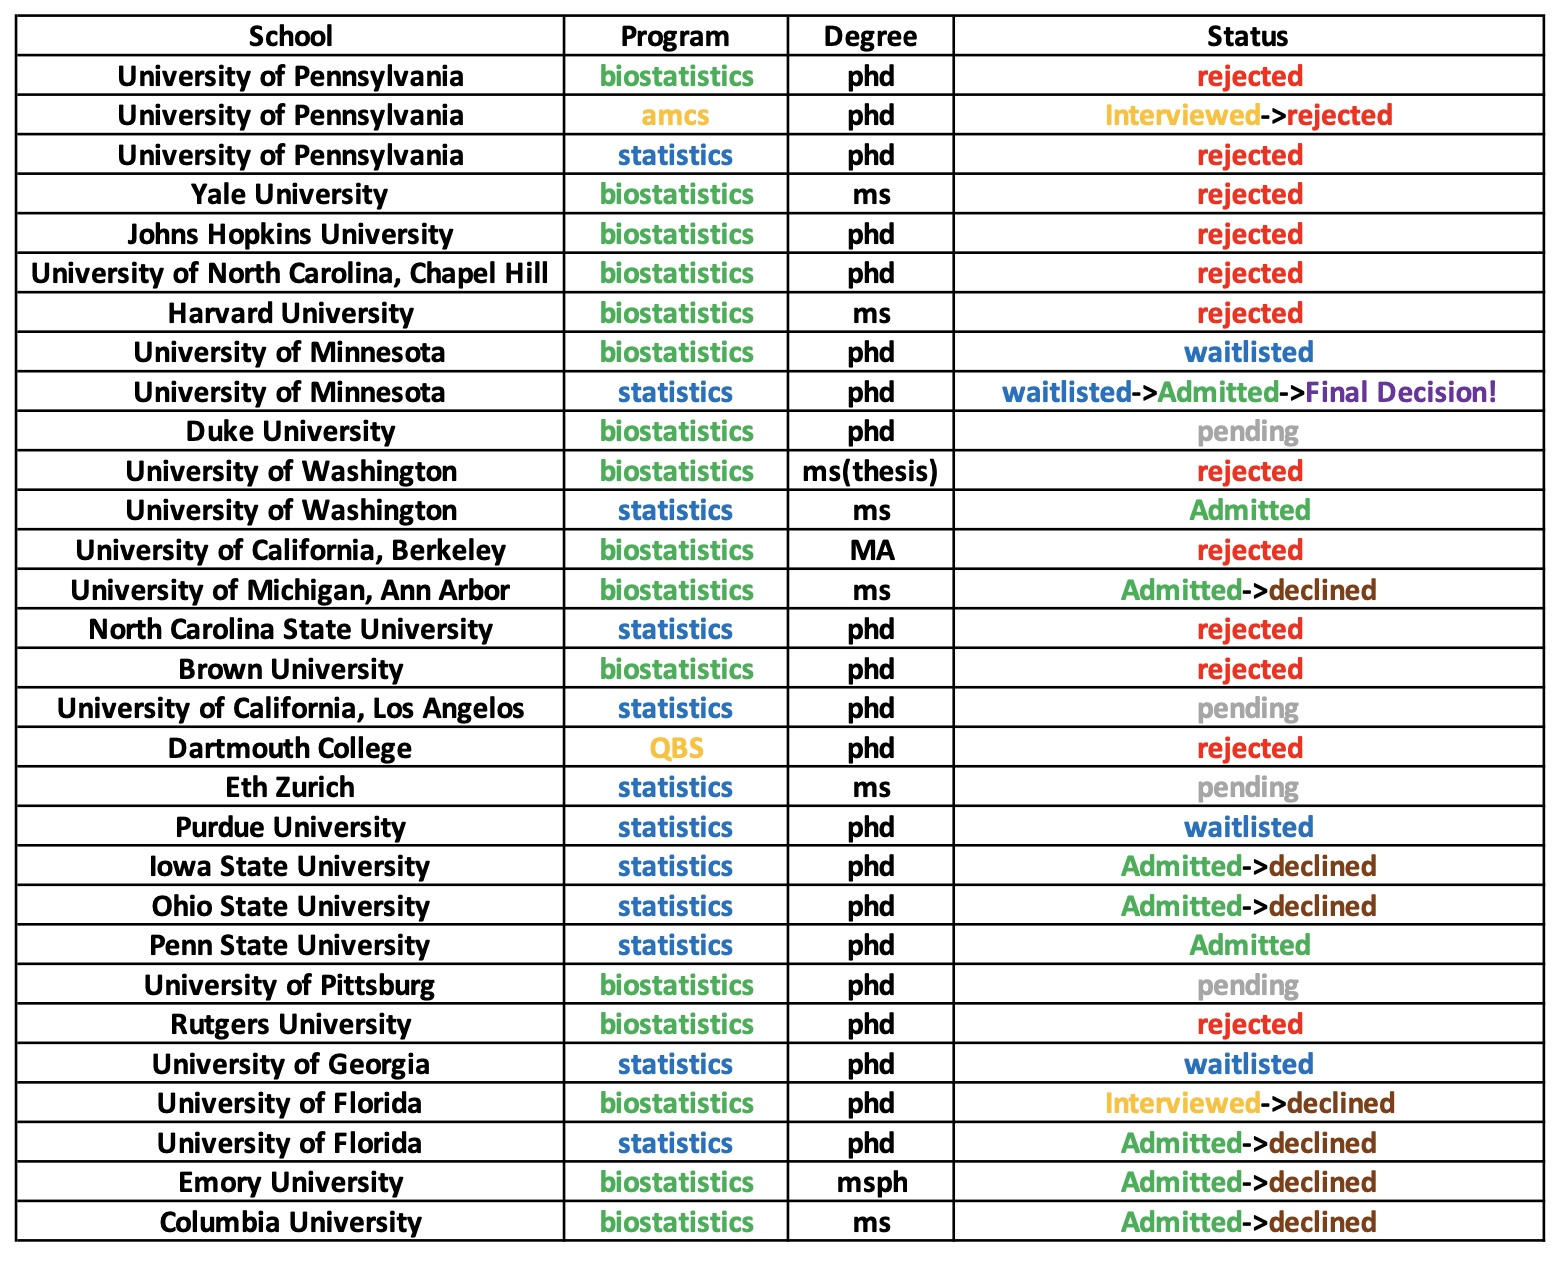
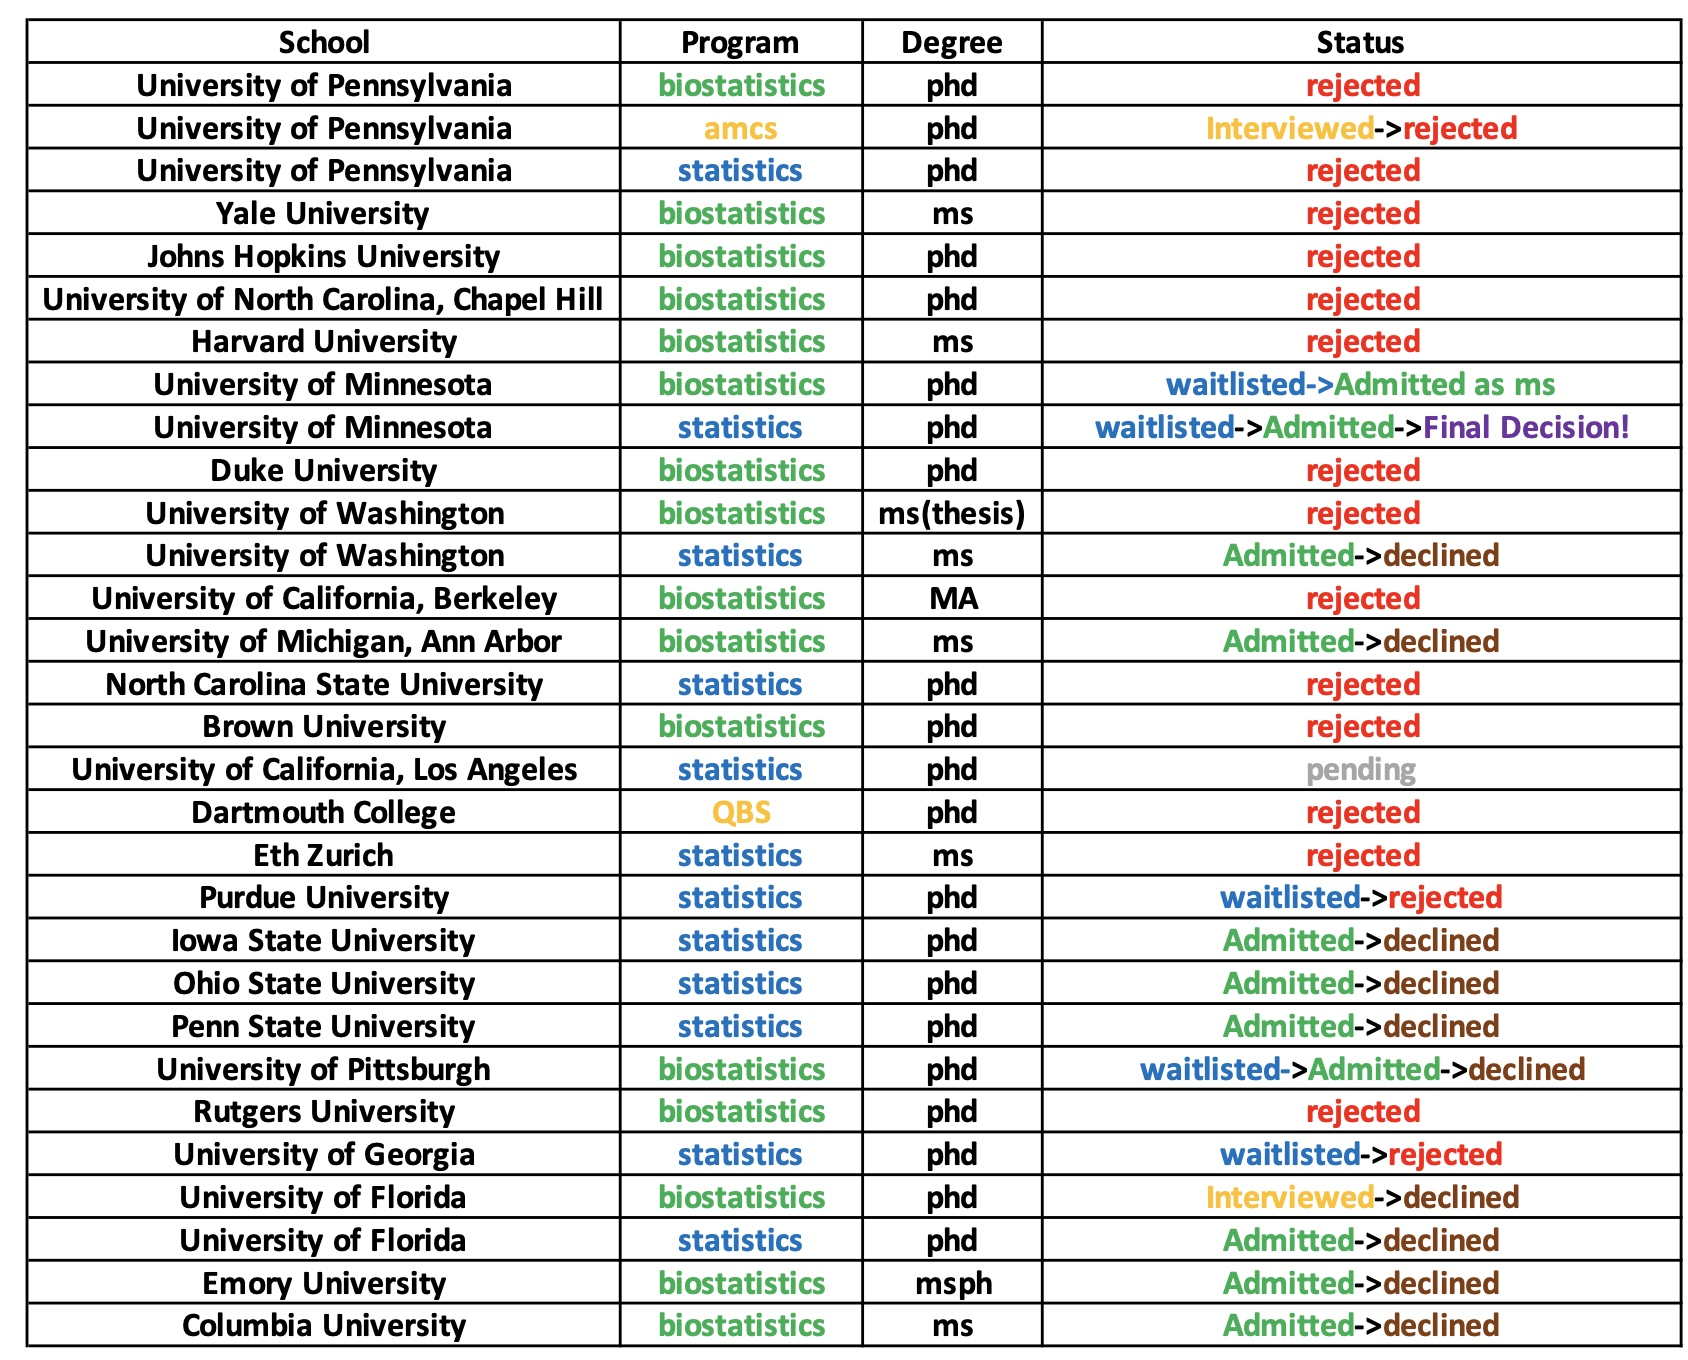
update 2023-04-03 post

diff --git a/_posts/2023-04-03-post.md b/_posts/2023-04-03-post.md
@@ -15,7 +15,7 @@ tags:
 #### *By [Mariana](https://mariana2000.github.io/)*
 
 #### *Date: 2023.2.27*
-#### *Last Update: 2023.4.6*
+#### *Last Update: 2023.4.27*
 
 ## 写在前面
 众所周知你清没有统计本科，但统辅一直是校内辅修的热门选项。或许是由于周老师经常在课上宣传统辅的含金量(x)，并提过有同学通过修了统辅研究生转申到了统计方向，这条路一直有人尝试，也某种程度上影响了我走了转申统计这条路。但实际开始准备时，才发现情况比想象的要复杂：转专业申请很难准确定位，对于 stat/biostat 各个项目的申请难度没有明确的认识，缺少 thu 往年转专业（或者没转专业）申请统计的样本等等。这些信息的缺乏导致我在申请初期走了一些弯路，并且也经历了一段时间的挣扎。现在申请季接近结束，经历了这个匆忙而又曲折的申请季，有很多东西想要分享，也想借这个平台贡献一下自己的 data point，供后来走这条路的学弟学妹们参考。
@@ -34,9 +34,9 @@ tags:
 
 **最终去向：** ***University of Minnesota, Twin Cities -Statistics Ph.D.***
 
-**Offer:** ISU stat phd, PSU stat phd, OSU stat phd, UFL biostat phd (Oral Offer)，UFL stat phd, UMN stat phd 
+**Offer:** ISU stat phd, PSU stat phd, OSU stat phd, UFL biostat phd (Oral Offer)，UFL stat phd, UMN stat phd, UPitts biostat phd 
 
-**Ad:** Emory biostat msph, UMich biostat ms, Columbia biostat ms, UW stat ms
+**Ad:** Emory biostat msph, UMich biostat ms, Columbia biostat ms, UW stat ms, UMN biostat ms
 
 **Rej/WL/Pending:** 剩下所有
 
@@ -193,6 +193,16 @@ tags:
     UPitts biostat waitlisted. 养鱼这么久终于记得来发个邮件提醒一下了，蚌
 
     Duke biostat phd rej. 终于发拒信了，没有念想了，申请季正式结束！
+
+  + 2023.4.15：
+    UMN biostat 降录 ms，蚌）
+
+  + 2023.4.17：
+    **UPitts biostat phd offer???** 竟然还有415之后发offer的，邮件里写的是 "a last spot"，乐了，等等党应有尽有x
+    UGA stat phd rej. 唯一一个保底项目被拒了...
+
+  + 2023.4.18：
+    Purdue stat phd rej.
 
   + 后续工作持续更新中...
 
